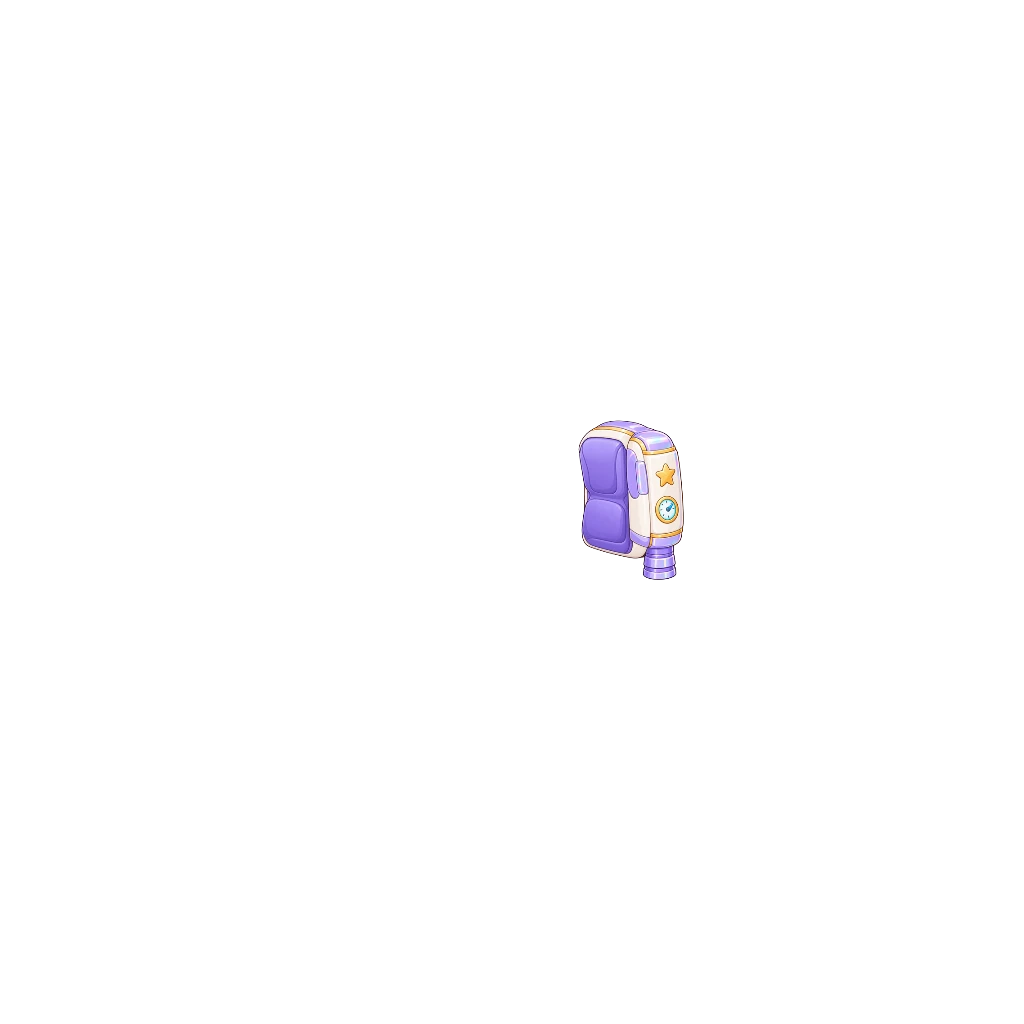
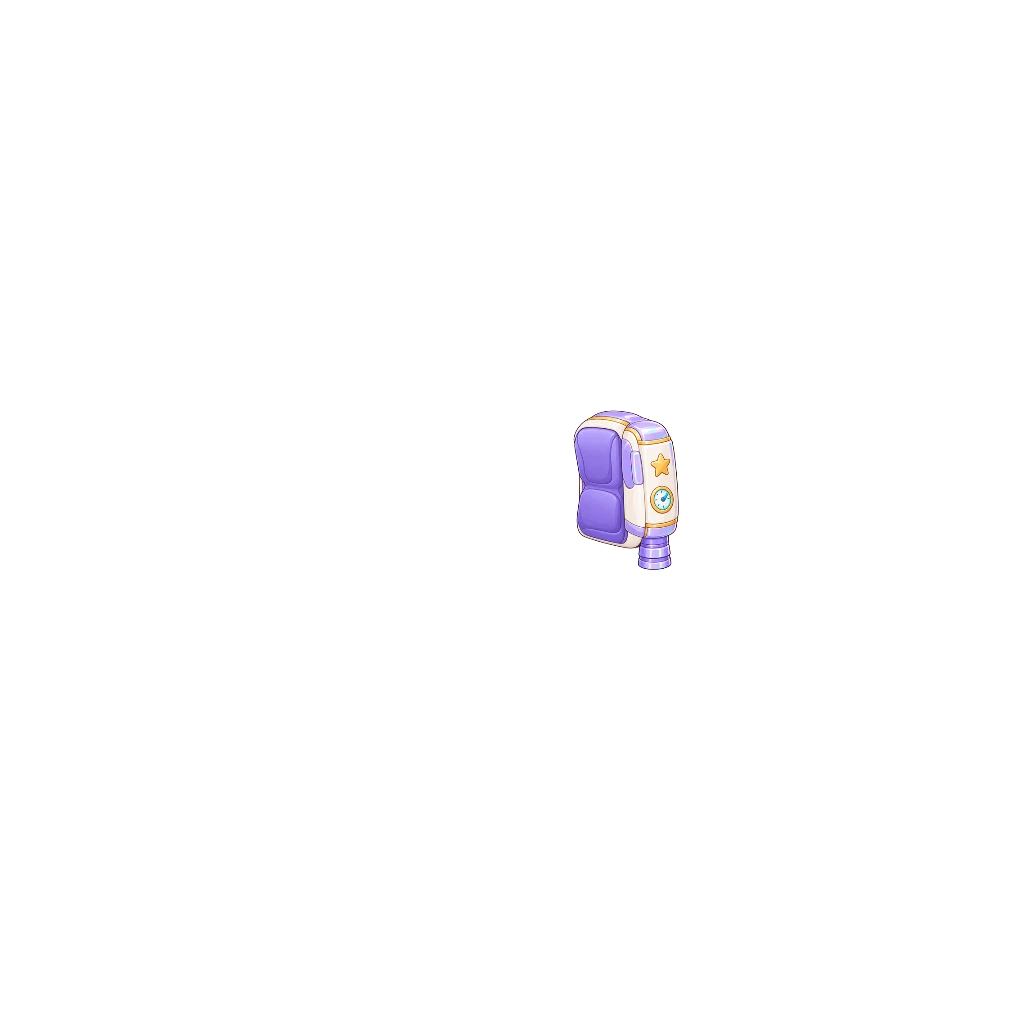
여아 우주 가방: 위로 10·왼쪽으로 5 (#1032)
Claude-Session: https://claude.ai/code/session_018maNuYqDfFyRSe9uKpZhPR

Changed region(s): [[0.5625, 0.375, 0.6875, 0.5625]]

diff --git a/src/data/avatarEquipment.js b/src/data/avatarEquipment.js
@@ -642,8 +642,9 @@ export const AVATAR_CATALOG = [
   /* 우주 가방 [2026-10-14] — 여아. 연보라·흰 우주 배낭(별·게이지·분사구, 사용자 원화 235×355). 별빛 우주인과 짝.
      사용자 참고 그림을 별빛 우주인 가슴으로 매칭해 아바타 좌표에 올림. 배낭은 몸 뒤 오른쪽(등 장비 기본 z15) — 배율 0.45,
      오른쪽 끝 x684·아래 끝 y580, 상자 (578,420,684,580). 머리(양갈래)가 위를 덮는 건 참고 그림과 같다.
-     어깨끈은 사용자가 나중에 줄 예정 — 받으면 imgFront(zFront 48)로 달고 옷별 끈 맞춤·칼라 규칙 적용. */
-  { id: "back_space_girl", slot: "back", label: "우주 가방", emoji: "🪐", price:DECOR_PRICE.rare, rarity: "rare", theme: "space", forGender: "girl", img: "assets/avatar/back/space-bag-girl.webp", thumb: "assets/avatar/thumb/back_space_girl.webp" },
+     어깨끈은 사용자가 나중에 줄 예정 — 받으면 imgFront(zFront 48)로 달고 옷별 끈 맞춤·칼라 규칙 적용.
+     [2026-10-14] 사용자 조정 — 위로 10·왼쪽으로 5(오른쪽 끝 x679·아래 끝 y570, ?v=2). 상자 (573,410,679,570). */
+  { id: "back_space_girl", slot: "back", label: "우주 가방", emoji: "🪐", price:DECOR_PRICE.rare, rarity: "rare", theme: "space", forGender: "girl", img: "assets/avatar/back/space-bag-girl.webp?v=2", thumb: "assets/avatar/thumb/back_space_girl.webp" },
   /* 우주 부츠 — 우주복 바지 밑단(y1425 근처)에 발목깃이 물리게 맞췄다. */
   /* [2026-10-03] 새 원화로 교체 — 남색·흰 우주 부츠(하늘색 띠·주황 탭) 두 짝, 사용자 원화 352×173. 위 탑재값은 옛 판 기록.
      여아 신발과 같은 방식 — 두 짝을 따로 잘라 원화 부츠목 가운데(왼짝 x85 · 오른짝 x56.5)를 남아 다리 가운데(x450.5 · x574.5)에,

diff --git a/art-src/README.md b/art-src/README.md
@@ -655,4 +655,4 @@ bbox로 여백만 잘라내고 배포본은 높이 480px로 축소했다(전부 
 | tube-bag-boy-src.webp · tube-bag-straps-boy-src.webp | **튜브 가방 원화 남아 (사용자 원화 2026-10-13)** — 주황·흰 구명 튜브(청록 손잡이·조개 장식) 425×459 + 청록 어깨끈 두 줄 276×169, 썸머 웨이브와 짝. 참고 그림(썸머 웨이브 가슴 매칭 0.957)대로 튜브는 몸 뒤 오른쪽(z15) 배율 0.50·-8°, 상자 (502,369,713,602). 어깨끈은 조각마다 배율 0.60, 윗선 어깨선·바깥선은 옷마다 그 옷의 팔과 몸통 사이 선, zFront 48. 칼라 있는 5벌(바다·번개·썸머·도토리·우주)은 칼라 모양대로 끈을 지움. 상점 그림은 튜브 원화를 세로 160px 로 | avatar/back/tube-bag-boy.webp · avatar/back/tube-bag-straps-boy.webp · avatar/back/tube-bag-straps-{tee,vest,pirate,hoodie,board,acorn,space,beach}-boy.webp · thumb/back_tube_boy.webp |
 | explorer-bag-boy-src.webp · explorer-bag-straps-boy-src.webp | **탐험가 가방 원화 남아 (사용자 원화 2026-10-13)** — 올리브 배낭(옆면 UFO·지도 무늬·나침반) + 올리브 어깨끈 두 줄(버클 두 개씩), 정글 탐험대와 짝. 원화의 반투명 잡티(알파 24 미만)는 지우고 오려 보관(907×1160·1023×708). 참고 그림(정글 탐험대 가슴 매칭)대로 배낭은 몸 뒤 오른쪽(z15) 배율 0.22, 상자 (484,364,684,620). → 배낭만 아래로 5, 상자 (484,369,684,625)(?v=2). → 아래로 5 더, 상자 (484,374,684,630)(?v=3). 어깨끈은 조각마다 배율 0.21, 윗선 어깨선·바깥선은 옷마다 그 옷의 팔과 몸통 사이 선, zFront 48. 칼라 있는 5벌은 칼라 모양대로 끈을 지움. 상점 그림은 배낭 원화를 세로 160px 로 | avatar/back/explorer-bag-boy.webp · avatar/back/explorer-bag-straps-boy.webp · avatar/back/explorer-bag-straps-{tee,vest,pirate,hoodie,board,acorn,space,beach}-boy.webp · thumb/back_xpack_boy.webp |
 | acorn-bag-boy-src.webp · acorn-bag-front-boy-src.webp | **도토리 가방 원화 남아 (사용자 원화 2026-10-13)** — 도토리 배낭 261×401 + 앞장(어깨끈 두 토막·허리 주머니) 268×155, 도토리 숲지기와 짝. 참고 그림(도토리 숲지기 가슴 매칭)대로 배낭은 몸 뒤 오른쪽(z15) 배율 0.55, 상자 (564,385,708,606). 앞장은 배율 0.78·zFront 48 — 도토리 숲지기는 참고 그림 그대로(잎 아래에서 끈, 주머니는 허리띠 오른쪽), 다른 옷은 버클 아래 민 끈을 위로 늘려 끈 윗끝을 어깨선까지(왼쪽 끈 바깥선은 옷마다 팔과 몸통 사이 선). 칼라 있는 옷은 칼라 모양대로 끈을 지움. 상점 그림은 배낭 원화를 세로 160px 로 | avatar/back/acorn-bag-boy.webp · avatar/back/acorn-bag-front-boy.webp · avatar/back/acorn-bag-front-{tee,vest,pirate,hoodie,board,acorn,space,beach}-boy.webp · thumb/back_acorn_boy.webp |
-| space-bag-girl-src.webp | **우주 가방 원화 여아 (사용자 원화 2026-10-14)** — 연보라·흰 우주 배낭(별·게이지·분사구) 235×355, 별빛 우주인과 짝. 참고 그림(별빛 우주인 가슴 매칭)대로 몸 뒤 오른쪽(z15) 배율 0.45, 상자 (578,420,684,580). 어깨끈은 나중에 받을 예정. 상점 그림은 원화를 세로 160px 로 | avatar/back/space-bag-girl.webp · thumb/back_space_girl.webp |
+| space-bag-girl-src.webp | **우주 가방 원화 여아 (사용자 원화 2026-10-14)** — 연보라·흰 우주 배낭(별·게이지·분사구) 235×355, 별빛 우주인과 짝. 참고 그림(별빛 우주인 가슴 매칭)대로 몸 뒤 오른쪽(z15) 배율 0.45, 상자 (578,420,684,580). → 위로 10·왼쪽으로 5, 상자 (573,410,679,570)(?v=2). 어깨끈은 나중에 받을 예정. 상점 그림은 원화를 세로 160px 로 | avatar/back/space-bag-girl.webp · thumb/back_space_girl.webp |
